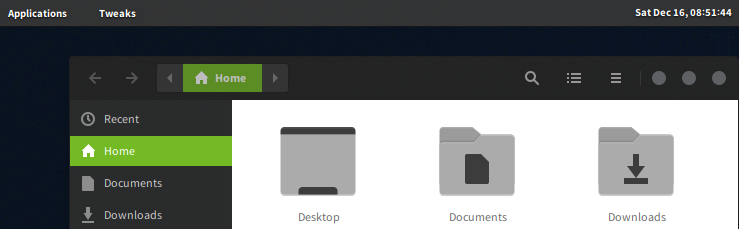
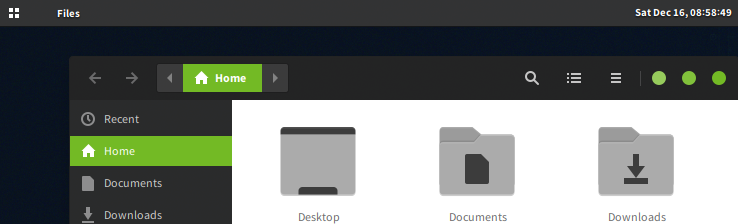
Added better transparency to top bar for Gnome-Shell

diff --git a/common/gnome-shell/3.14/gnome-shell-dark.css b/common/gnome-shell/3.14/gnome-shell-dark.css
@@ -648,19 +648,17 @@ StScrollBar {
   font-weight: bold;
   height: 2.1em;
   min-height: 27px;
-  background-color: transparent !important;
+  background-color: rgba(44, 44, 44, 0.7) !important;
   background-gradient-direction: none !important;
-  border-bottom: 0px !important;
-  border-image: url("common-assets/panel/panel.svg") 1 1 1 1 !important; }
+  border-bottom: 0px !important; }
   #panel.dynamic-top-bar-white-btn {
     border-image: none; }
   #panel.unlock-screen, #panel.login-screen, #panel.lock-screen {
     background-color: transparent;
     border-image: none; }
-  #panel:overview {
-    border-image: url("common-assets/panel/panel-overview.svg") 1 1 1 1; }
   #panel #panelLeft, #panel #panelCenter {
     spacing: 8px; }
+  #panel.solid { background-color: #2c2c2c !important; }
   #panel .panel-corner {
     -panel-corner-radius: 0px;
     -panel-corner-background-color: transparent;

diff --git a/common/gnome-shell/3.14/gnome-shell.css b/common/gnome-shell/3.14/gnome-shell.css
@@ -648,19 +648,17 @@ StScrollBar {
   font-weight: bold;
   height: 2.1em;
   min-height: 27px;
-  background-color: transparent !important;
+  background-color: rgba(44, 44, 44, 0.7) !important;
   background-gradient-direction: none !important;
-  border-bottom: 0px !important;
-  border-image: url("common-assets/panel/panel.svg") 1 1 1 1 !important; }
+  border-bottom: 0px !important; }
   #panel.dynamic-top-bar-white-btn {
     border-image: none; }
   #panel.unlock-screen, #panel.login-screen, #panel.lock-screen {
     background-color: transparent;
     border-image: none; }
-  #panel:overview {
-    border-image: url("common-assets/panel/panel-overview.svg") 1 1 1 1; }
   #panel #panelLeft, #panel #panelCenter {
     spacing: 8px; }
+  #panel.solid { background-color: #2c2c2c !important; }
   #panel .panel-corner {
     -panel-corner-radius: 0px;
     -panel-corner-background-color: transparent;

diff --git a/common/gnome-shell/3.16/gnome-shell-dark.css b/common/gnome-shell/3.16/gnome-shell-dark.css
@@ -596,18 +596,16 @@ StScrollBar {
   height: 2.1em;
   min-height: 27px;
   background-gradient-direction: none;
-  background-color: transparent;
-  border-bottom-width: 0;
-  border-image: url("common-assets/panel/panel.svg") 1 1 1 1; }
+  background-color: rgba(44, 44, 44, 0.7);
+  border-bottom-width: 0; }
   #panel.dynamic-top-bar-white-btn {
     border-image: none; }
   #panel.unlock-screen, #panel.login-screen, #panel.lock-screen {
     background-color: transparent;
     border-image: none; }
-  #panel:overview {
-    border-image: url("common-assets/panel/panel-overview.svg") 1 1 1 1; }
   #panel #panelLeft, #panel #panelCenter {
     spacing: 8px; }
+  #panel.solid { background-color: #2c2c2c; }
   #panel .panel-corner {
     -panel-corner-radius: 0px;
     -panel-corner-background-color: transparent;

diff --git a/common/gnome-shell/3.16/gnome-shell.css b/common/gnome-shell/3.16/gnome-shell.css
@@ -596,18 +596,16 @@ StScrollBar {
   height: 2.1em;
   min-height: 27px;
   background-gradient-direction: none;
-  background-color: transparent;
-  border-bottom-width: 0;
-  border-image: url("common-assets/panel/panel.svg") 1 1 1 1; }
+  background-color: rgba(44, 44, 44, 0.7);
+  border-bottom-width: 0; }
   #panel.dynamic-top-bar-white-btn {
     border-image: none; }
   #panel.unlock-screen, #panel.login-screen, #panel.lock-screen {
     background-color: transparent;
     border-image: none; }
-  #panel:overview {
-    border-image: url("common-assets/panel/panel-overview.svg") 1 1 1 1; }
   #panel #panelLeft, #panel #panelCenter {
     spacing: 8px; }
+  #panel.solid { background-color: #2c2c2c; }
   #panel .panel-corner {
     -panel-corner-radius: 0px;
     -panel-corner-background-color: transparent;

diff --git a/common/gnome-shell/3.18/gnome-shell-dark.css b/common/gnome-shell/3.18/gnome-shell-dark.css
@@ -648,18 +648,16 @@ StScrollBar {
   height: 2.1em;
   min-height: 27px;
   background-gradient-direction: none;
-  background-color: transparent;
-  border-bottom-width: 0;
-  border-image: url("common-assets/panel/panel.svg") 1 1 1 1; }
+  background-color: rgba(44, 44, 44, 0.7);
+  border-bottom-width: 0; }
   #panel.dynamic-top-bar-white-btn {
     border-image: none; }
   #panel.unlock-screen, #panel.login-screen, #panel.lock-screen {
     background-color: transparent;
     border-image: none; }
-  #panel:overview {
-    border-image: url("common-assets/panel/panel-overview.svg") 1 1 1 1; }
   #panel #panelLeft, #panel #panelCenter {
     spacing: 8px; }
+  #panel.solid { background-color: #2c2c2c; }
   #panel .panel-corner {
     -panel-corner-radius: 0px;
     -panel-corner-background-color: transparent;

diff --git a/common/gnome-shell/3.18/gnome-shell.css b/common/gnome-shell/3.18/gnome-shell.css
@@ -648,18 +648,16 @@ StScrollBar {
   height: 2.1em;
   min-height: 27px;
   background-gradient-direction: none;
-  background-color: transparent;
-  border-bottom-width: 0;
-  border-image: url("common-assets/panel/panel.svg") 1 1 1 1; }
+  background-color: rgba(44, 44, 44, 0.7);
+  border-bottom-width: 0; }
   #panel.dynamic-top-bar-white-btn {
     border-image: none; }
   #panel.unlock-screen, #panel.login-screen, #panel.lock-screen {
     background-color: transparent;
     border-image: none; }
-  #panel:overview {
-    border-image: url("common-assets/panel/panel-overview.svg") 1 1 1 1; }
   #panel #panelLeft, #panel #panelCenter {
     spacing: 8px; }
+  #panel.solid { background-color: #2c2c2c; }
   #panel .panel-corner {
     -panel-corner-radius: 0px;
     -panel-corner-background-color: transparent;
